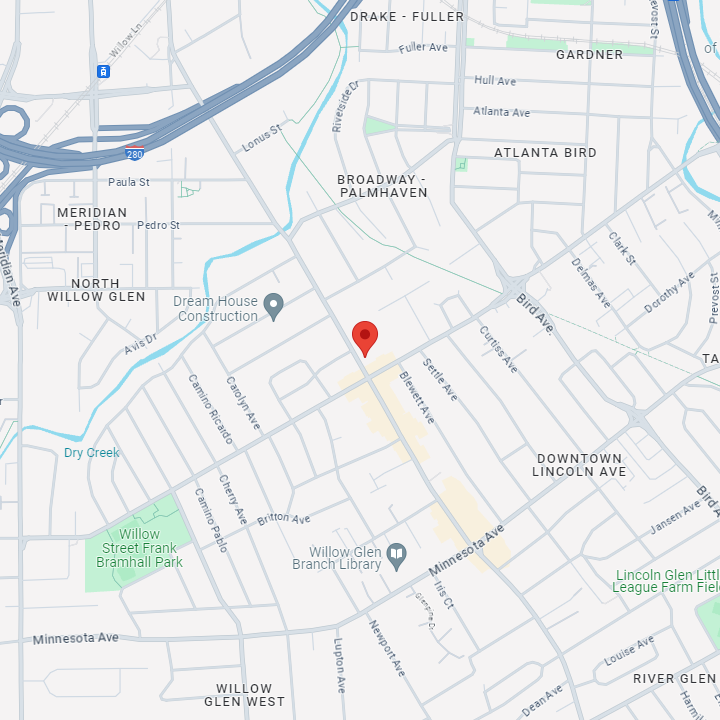
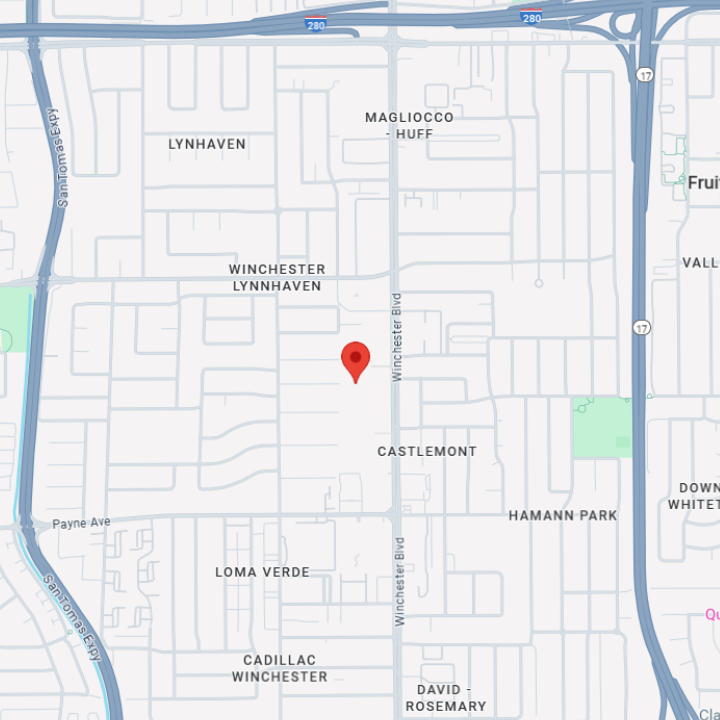
Main Update 2
Changed Address & Added New Pictures
Added Translated Prologue
Added Line Breaks for Japanese Recommendations
Added Price Disclaimer

diff --git a/js/dictionary.js b/js/dictionary.js
@@ -11,23 +11,32 @@ const words = {
         "QUESTIONS": "Q&A",
         "PRICES": "PRICES",
         "ABOUT ME": "ABOUT ME",
-        "(In Lynda Caisip CMT Salon)": "(In Lynda Caisip CMT Salon)",
         "Appointment Only": "Appointment Only",
         "Please text me": "Please text me",
         "Opening Hours": "Opening Hours",
         "Testimonials": "Testimonials",
-        "One of the best massages I’ve ever had! Before the massage she asked me if anything hurt, or if she should focus on any areas.  I told her that my lower back and neck were a bit tight.  She was able to focus on the lower back and neck, and helped stretch my legs, arms, and lower back. She was able to apply good appropriate pressure.  I find that a lot of massage therapists aren’t able to apply enough pressure, but that was no issue for Rei, the pressure was perfect, and at the end of the massage I felt loose and relaxed.  Would definitely recommend and go again!": "One of the best massages I’ve ever had! Before the massage she asked me if anything hurt, or if she should focus on any areas.  I told her that my lower back and neck were a bit tight.  She was able to focus on the lower back and neck, and helped stretch my legs, arms, and lower back. She was able to apply good appropriate pressure.  I find that a lot of massage therapists aren’t able to apply enough pressure, but that was no issue for Rei, the pressure was perfect, and at the end of the massage I felt loose and relaxed.  Would definitely recommend and go again!",
+        "First Quote 1": "One of the best massages I’ve ever had! Before the massage she asked me if anything hurt, or if she should focus on any areas.  I told her that my lower back and neck were a bit tight.  She was able to focus on the lower back and neck, and helped stretch my legs, arms, and lower back. She was able to apply good appropriate pressure.  I find that a lot of massage therapists aren’t able to apply enough pressure, but that was no issue for Rei, the pressure was perfect, and at the end of the massage I felt loose and relaxed.  Would definitely recommend and go again!",
+        "First Quote 2": " ",
+        "First Quote 3": " ",
         "-M": "-M",
-        "I was very satisfied with her massage!  She took enough time to do counseling to  provide me with good care for pregnant before starting massage.  I'd like to recommend her to not only for pregnant but everyone!": "I was very satisfied with her massage!  She took enough time to do counseling to  provide me with good care for pregnant before starting massage.  I'd like to recommend her to not only for pregnant but everyone!",
+        "Second Quote 1": "I was very satisfied with her massage!  She took enough time to do counseling to  provide me with good care for pregnant before starting massage.  I'd like to recommend her to not only for pregnant but everyone!",
+        "Second Quote 2": " ",
+        "Second Quote 3": " ",
+        "Second Quote 4": " ",
+        "Second Quote 5": " ",
         "-S": "-S",
-        "If you want deep tissue, this is the massage for you!  It can be painful, but your body feels amazing afterwards!  Rei will customize the massage for you, so you don't have to go that hard, but I love it!!": "If you want deep tissue, this is the massage for you!  It can be painful, but your body feels amazing afterwards!  Rei will customize the massage for you, so you don't have to go that hard, but I love it!!",
+        "Third Quote 1": "If you want deep tissue, this is the massage for you!  It can be painful, but your body feels amazing afterwards!  Rei will customize the massage for you, so you don't have to go that hard, but I love it!!",
+        "Third Quote 2": " ",
+        "Third Quote 3": " ",
+        "Third Quote 4": " ",
+        "Third Quote 5": " ",
         "-K": "-K",
 
 
 
         "Prologue": "Prologue",
         "I’m Rei Tan, a Massage therapist in the Bay Area.": "I’m Rei Tan, a Massage therapist in the Bay Area.",
-        "Prologue info": " ",
+        "Prologue info": "I have recently been given the opportunity to work as a massage therapist in the Bay Area. I hope to be able to help those who work hard every day, whether it be from work or childcare fatigue, find relief. If you have any questions or would like to make a reservation, please send a text message to the phone number posted. I cannot answer the phone while I am at work, so if you leave a text, I will get back to you as soon as possible.",
         "Shiatsu Benefits": "Shiatsu Benefits",
         "Shiatsu is a Japanese form of therapeutic bodywork, that combines Chinese concepts of medicine, traditional Japanese therapies, as well as more modern western knowledge in order to harmonize the body. While its modern research has been limited, multitudes of benefits have been found. Listed here are some of the documented benefits, feel free to click on the images to view the studies from trusted scientific societies and foundations that support each benefit.": "Shiatsu is a Japanese form of therapeutic bodywork, that combines Chinese concepts of medicine, traditional Japanese therapies, as well as more modern western knowledge in order to harmonize the body. While its modern research has been limited, multitudes of benefits have been found. Listed here are some of the documented benefits, feel free to click on the images to view the studies from trusted scientific societies and foundations that support each benefit.",
         "Reduces Stress": "Reduces Stress",
@@ -39,7 +48,6 @@ const words = {
         "Rei Shiatsu": "Rei Shiatsu",
         "Newbury Park": "Newbury Park",
         "Text: (510) 684-0386": "Text: (510) 684-0386",
-        "We are located in Lynda Caisip CMT Salon.": "We are located in Lynda Caisip CMT Salon.",
         "What to Expect": "What to Expect",
         "Massage sessions combine elements of acupuncture and stretching into a full body massage. We recommend loose-fitting clothing such as pajamas, we have a room that you can change in, in order to get the best experience. The first half of the session you will be lying on your stomach and then on your back during the later half. If you can't lie on your stomach or have any difficulties you may like on your side or back. In the beginning of the massage the pressure will be light before gradually transitioning stronger. Please let us know at any time if you experience any pain or discomfort.": "Massage sessions combine elements of acupuncture and stretching into a full body massage. We recommend loose-fitting clothing such as pajamas, we have a room that you can change in, in order to get the best experience. The first half of the session you will be lying on your stomach and then on your back during the later half. If you can't lie on your stomach or have any difficulties you may like on your side or back. In the beginning of the massage the pressure will be light before gradually transitioning stronger. Please let us know at any time if you experience any pain or discomfort.",
         "After the Session": "After the Session",
@@ -85,7 +93,8 @@ const words = {
         "3 Personalized Sessions": "3 Personalized Sessions",
         "1 Hour Each": "1 Hour Each",
         "PREMIUM PACKAGE": "PREMIUM PACKAGE",
-        "4 Personalized Sessions": "4 Personalized Sessions"
+        "4 Personalized Sessions": "4 Personalized Sessions",
+        "You need to pay the full amount of the package at the first time.": "You need to pay the full amount of the package at the first time."
 
     }, 
     jp: {
@@ -99,17 +108,26 @@ const words = {
         "QUESTIONS": "質問",
         "PRICES": "料金表",
         "ABOUT ME": "自己紹介",
-        "(In Lynda Caisip CMT Salon)": "(Lynda Caisip CMT表示のあるサロン内になります)",
         "Our Location": "住所",
         "Appointment Only": "ご予約の方のみ受け付けております",
         "Please text me": "テキストにてお問い合わせ下さい",
         "Opening Hours": "営業時間",
         "Testimonials": "お客様の感想",
-        "One of the best massages I’ve ever had! Before the massage she asked me if anything hurt, or if she should focus on any areas.  I told her that my lower back and neck were a bit tight.  She was able to focus on the lower back and neck, and helped stretch my legs, arms, and lower back. She was able to apply good appropriate pressure.  I find that a lot of massage therapists aren’t able to apply enough pressure, but that was no issue for Rei, the pressure was perfect, and at the end of the massage I felt loose and relaxed.  Would definitely recommend and go again!": "アメリカに来てから、長年マッサージを受けには行っていなかったのですが、日本のようなマッサージを受けれると聞いて、嬉しくて、すぐに伺いました。結果、痛い所はないかなど、細かく聞いて下さり、久しぶりに日本のような指圧マッサージをうけることができました。身体も以前に比べたら、かなり軽くなりました。定期的に通いたいと思います。本当にありがとうございました。また、どうぞ宜しくお願い致します。",
+        "First Quote 1": "アメリカに来てから、長年マッサージを受けには行っていなかったのですが、日本のようなマッサージを受けれると聞いて、嬉しくて、すぐに伺いました。",
+        "First Quote 2": "結果、痛い所はないかなど、細かく聞いて下さり、久しぶりに日本のような指圧マッサージをうけることができました。",
+        "First Quote 3": "身体も以前に比べたら、かなり軽くなりました。定期的に通いたいと思います。本当にありがとうございました。また、どうぞ宜しくお願い致します。",
         "-M": "M.T.",
-        "I was very satisfied with her massage!  She took enough time to do counseling to  provide me with good care for pregnant before starting massage.  I'd like to recommend her to not only for pregnant but everyone!": "イベント明けに全身の疲れを取ろうとマッサージお願いしてみて、すごくよかったので、子育やら仕事やら、家事などでお疲れのママや、もちろんパパにもおすすめです！３回セットでお願いして試してみました、マッサージ後の体の軽さはもちろん、その後の体の疲労がいつもより軽い！そして、体の自分での改善のストレッチなども教えて頂けるので、体が悲鳴を上げてる方！必見です！偏頭痛などおこらず、薬も飲まず、行けてます！奇跡です！本当にマッサージのおかげです。ぜひ、１回でも、２-３回でも続けてみるとより効果てきめんでした",
+        "Second Quote 1": "イベント明けに全身の疲れを取ろうとマッサージお願いしてみて、すごくよかったので、子育やら仕事やら、家事などでお疲れのママや、もちろんパパにもおすすめです！",
+        "Second Quote 2": "３回セットでお願いして試してみました、マッサージ後の体の軽さはもちろん、その後の体の疲労がいつもより軽い！",
+        "Second Quote 3": "そして、体の自分での改善のストレッチなども教えて頂けるので、体が悲鳴を上げてる方！必見です！",
+        "Second Quote 4": "偏頭痛などおこらず、薬も飲まず、行けてます！奇跡です！本当にマッサージのおかげです。",
+        "Second Quote 5": "ぜひ、１回でも、２-３回でも続けてみるとより効果てきめんでした。",
         "-S": "A.M.",
-        "If you want deep tissue, this is the massage for you!  It can be painful, but your body feels amazing afterwards!  Rei will customize the massage for you, so you don't have to go that hard, but I love it!!": "ベイエリアのマッサージ店は数え切れないほどあるため、よい店を見つけることは困難です。経験上かなり怪しい店が多く。英語が通じなかったり、マッサージも優しすぎて物足りない事がほとんどでした。それに対して日本人で、専門的なトレーニングを受けた本格的なマッサージです。規定の時間、丁寧にマッサージをしてくれます。具合の悪いところについて日本語で細かく説明できる点も日本人には魅力です。マッサージのトレーニングはアメリカで受けたそうで、日本で学んだわけではないそうです。主に指圧のような押すマッサージと、タイ式のような伸ばすマッサージでした。",
+        "Third Quote 1": "ベイエリアのマッサージ店は数え切れないほどあるため、よい店を見つけることは困難です。",
+        "Third Quote 2": "経験上かなり怪しい店が多く。英語が通じなかったり、マッサージも優しすぎて物足りない事がほとんどでした。",
+        "Third Quote 3": "それに対して日本人で、専門的なトレーニングを受けた本格的なマッサージです。",
+        "Third Quote 4": "規定の時間、丁寧にマッサージをしてくれます。具合の悪いところについて日本語で細かく説明できる点も日本人には魅力です。",
+        "Third Quote 5": "マッサージのトレーニングはアメリカで受けたそうで、日本で学んだわけではないそうです。主に指圧のような押すマッサージと、タイ式のような伸ばすマッサージでした。",
         "-K": "K.Y.",
         "Prologue": "はじめに",
         "I’m Rei Tan, a Massage therapist in the Bay Area.": "初めまして私は Rei Tan と申します。",
@@ -125,7 +143,6 @@ const words = {
         "Rei Shiatsu": "Rei Shiatsu",
         "Newbury Park": "Newbury Park",
         "Text: (510) 684-0386": "Text: (510) 684-0386",
-        "We are located in Lynda Caisip CMT Salon.": "Lynda Caisip CMT表示のあるサロン内になります",
         "What to Expect": "施術を受けるにあたって",
         "Massage sessions combine elements of acupuncture and stretching into a full body massage. We recommend loose-fitting clothing such as pajamas, we have a room that you can change in, in order to get the best experience. The first half of the session you will be lying on your stomach and then on your back during the later half. If you can't lie on your stomach or have any difficulties you may like on your side or back. In the beginning of the massage the pressure will be light before gradually transitioning stronger. Please let us know at any time if you experience any pain or discomfort.": "服装はリラックスして受けていただけるように、ゆったりとしていて施術を受ける人がストレスなく動ける服装でお願いしています。指圧は圧加減の強弱調節が非常に大切です。そのためには患者様とのコミュニケーションが重要になります例えば、私達が一方的に強さを決めたり施術箇所を決めたりはいたしません。しっかりと希望を聞き、筋やお体の状態に応じて調整していきます。ただしご要望であっても必要以上に強く圧を加えることも致しません。例えば、強ければ効くというものではありませんし筋緊張を誘発してもみ起こしの原因にもなります。",
         "After the Session": "術後について",
@@ -172,5 +189,6 @@ const words = {
         "1 Hour Each": "1時間",
         "PREMIUM PACKAGE": "プレミアムパッケージ",
         "4 Personalized Sessions": "4回分"
+        "You need to pay the full amount of the package at the first time.": "パッケージは1回目の使用時に全額を払う必要があります。"
     }
 };

diff --git a/index.html b/index.html
@@ -67,9 +67,8 @@ function changeIcon() {
         <img class="info-box-icon mr-4" src="assets\house-door-fill.svg" alt="home-icon">
         <div class="info-box-info">
           <h6 class="l10n">Our Location</h6>
-          1090 Lincoln Ave, Suite 6C,
-          <br>San Jose, CA  95125
-          <p class="info-box-p l10n">(In Lynda Caisip CMT Salon)</p>
+          1101 S Winchester Blvd, Building J, Suite J-210,
+          <br>San Jose, CA 95128
         </div>
       </div>
     </div>
@@ -105,7 +104,9 @@ function changeIcon() {
         <p>,,</p>
       </span>
       <div class="testimonial-text">
-        <p class="indent l10n">One of the best massages I’ve ever had! Before the massage she asked me if anything hurt, or if she should focus on any areas.  I told her that my lower back and neck were a bit tight.  She was able to focus on the lower back and neck, and helped stretch my legs, arms, and lower back. She was able to apply good appropriate pressure.  I find that a lot of massage therapists aren’t able to apply enough pressure, but that was no issue for Rei, the pressure was perfect, and at the end of the massage I felt loose and relaxed.  Would definitely recommend and go again!</p>
+        <p class="indent l10n">First Quote 1</p>
+        <p class="l10n">First Quote 2</p>
+        <p class="l10n">First Quote 3</p>
         <p class="testimonials-person l10n">-M</p>
       </div>
     </div>
@@ -114,7 +115,11 @@ function changeIcon() {
         <p>,,</p>
       </span>
       <div class="testimonial-text">
-        <p class="indent l10n">I was very satisfied with her massage!  She took enough time to do counseling to  provide me with good care for pregnant before starting massage.  I'd like to recommend her to not only for pregnant but everyone!</p>
+        <p class="indent l10n">Second Quote 1</p>
+        <p class="l10n">Second Quote 2</p>
+        <p class="l10n">Second Quote 3</p>
+        <p class="l10n">Second Quote 4</p>
+        <p class="l10n">Second Quote 5</p>
         <p class="testimonials-person l10n">-S</p>
       </div>
     </div>
@@ -123,7 +128,11 @@ function changeIcon() {
         <p>,,</p>
       </span>
       <div class="testimonial-text">
-        <p class="indent l10n">If you want deep tissue, this is the massage for you!  It can be painful, but your body feels amazing afterwards!  Rei will customize the massage for you, so you don't have to go that hard, but I love it!!</p>
+        <p class="indent l10n">Third Quote 1</p>
+        <p class="l10n">Third Quote 2</p>
+        <p class="l10n">Third Quote 3</p>
+        <p class="l10n">Third Quote 4</p>
+        <p class="l10n">Third Quote 5</p>
         <p class="testimonials-person l10n">-K</p>
       </div>
     </div>
@@ -195,8 +204,8 @@ function changeIcon() {
       <h3 class="l10n">Newbury Park</h3>
       <div class="row m-0">
         <div class="col-6 m-0 pl-0">
-          <p class="location-text"><br>1090 Lincoln Ave, Suite 6C,
-          <br>San Jose, CA 95125</p>
+          <p class="location-text"><br>1101 S Winchester Blvd, Building J, Suite J-210,
+          <br>San Jose, CA 95128</p>
           <p class="l10n">Text: (510) 684-0386</p>
         </div>
         <div class="col-6 m-0">
@@ -205,7 +214,7 @@ function changeIcon() {
           10AM - 7PM
         </div>
       </div>
-      <br><br><p class="l10n">We are located in Lynda Caisip CMT Salon.</p> 
+      <br><br><p class="l10n"></p> 
     </div>
   </div>
 </div>
@@ -236,9 +245,9 @@ function changeIcon() {
     <div class="col-xs-12 col-md-6">
       <div class="footer-info-1">
         <h5 class="l10n">Rei Shiatsu</h5>
-        <a href="">
-          1090 Lincoln Ave, Suite 6C,
-          <br>San Jose, CA 95125<br>
+        <a href="https://maps.app.goo.gl/5YpyQR5ob3jGHAHz7">
+          1101 S Winchester Blvd, Building J, Suite J-210,
+          <br>San Jose, CA 95128<br>
         </a>
         <footer-info-1 class="l10n">Text: (510) 684-0386</footer-info-1> 
       </div>

diff --git a/prices.html b/prices.html
@@ -118,6 +118,9 @@ function changeIcon() {
       </div>
     </div>
   </div>
+  <div>
+    <p class="l10n">* You need to pay the full amount of the package at the first time.</p>
+  </div>
 </div>
 
 <div class="footer p-5">
@@ -125,9 +128,9 @@ function changeIcon() {
     <div class="col-xs-12 col-md-6">
       <div class="footer-info-1">
         <h5 class="l10n">Rei Shiatsu</h5>
-        <a href="">
-          1090 Lincoln Ave, Suite 6C,
-          <br>San Jose, CA 95125<br>
+        <a href="https://maps.app.goo.gl/5YpyQR5ob3jGHAHz7">
+          1101 S Winchester Blvd, Building J, Suite J-210,
+          <br>San Jose, CA 95128<br>
         </a>
         <footer-info-1 class="l10n">Text: (510) 684-0386</footer-info-1> 
       </div>

diff --git a/qna.html b/qna.html
@@ -220,9 +220,9 @@ function changeIcon() {
     <div class="col-xs-12 col-md-6">
       <div class="footer-info-1">
         <h5 class="l10n">Rei Shiatsu</h5>
-        <a href="">
-          1090 Lincoln Ave, Suite 6C,
-          <br>San Jose, CA 95125<br>
+        <a href="https://maps.app.goo.gl/5YpyQR5ob3jGHAHz7">
+          1101 S Winchester Blvd, Building J, Suite J-210,
+          <br>San Jose, CA 95128<br>
         </a>
         <footer-info-1 class="l10n">Text: (510) 684-0386</footer-info-1> 
       </div>

diff --git a/about.html b/about.html
@@ -89,9 +89,9 @@ function changeIcon() {
     <div class="col-xs-12 col-md-6">
       <div class="footer-info-1">
         <h5 class="l10n">Rei Shiatsu</h5>
-        <a href="">
-          1090 Lincoln Ave, Suite 6C,
-          <br>San Jose, CA 95125<br>
+        <a href="https://maps.app.goo.gl/5YpyQR5ob3jGHAHz7">
+          1101 S Winchester Blvd, Building J, Suite J-210,
+          <br>San Jose, CA 95128<br>
         </a>
         <footer-info-1 class="l10n">Text: (510) 684-0386</footer-info-1> 
       </div>

diff --git a/style.css b/style.css
@@ -526,7 +526,7 @@ p.testimonials-person {
   margin: 0;
   padding: 7vh 8vw;
   max-width: 100vw;
-  background-image: url(images/location-outside-1.jpeg);
+  background-image: url(images/location-outside-1.jpg);
   background-position: center;
   background-size: cover;
   background-repeat: no-repeat;
